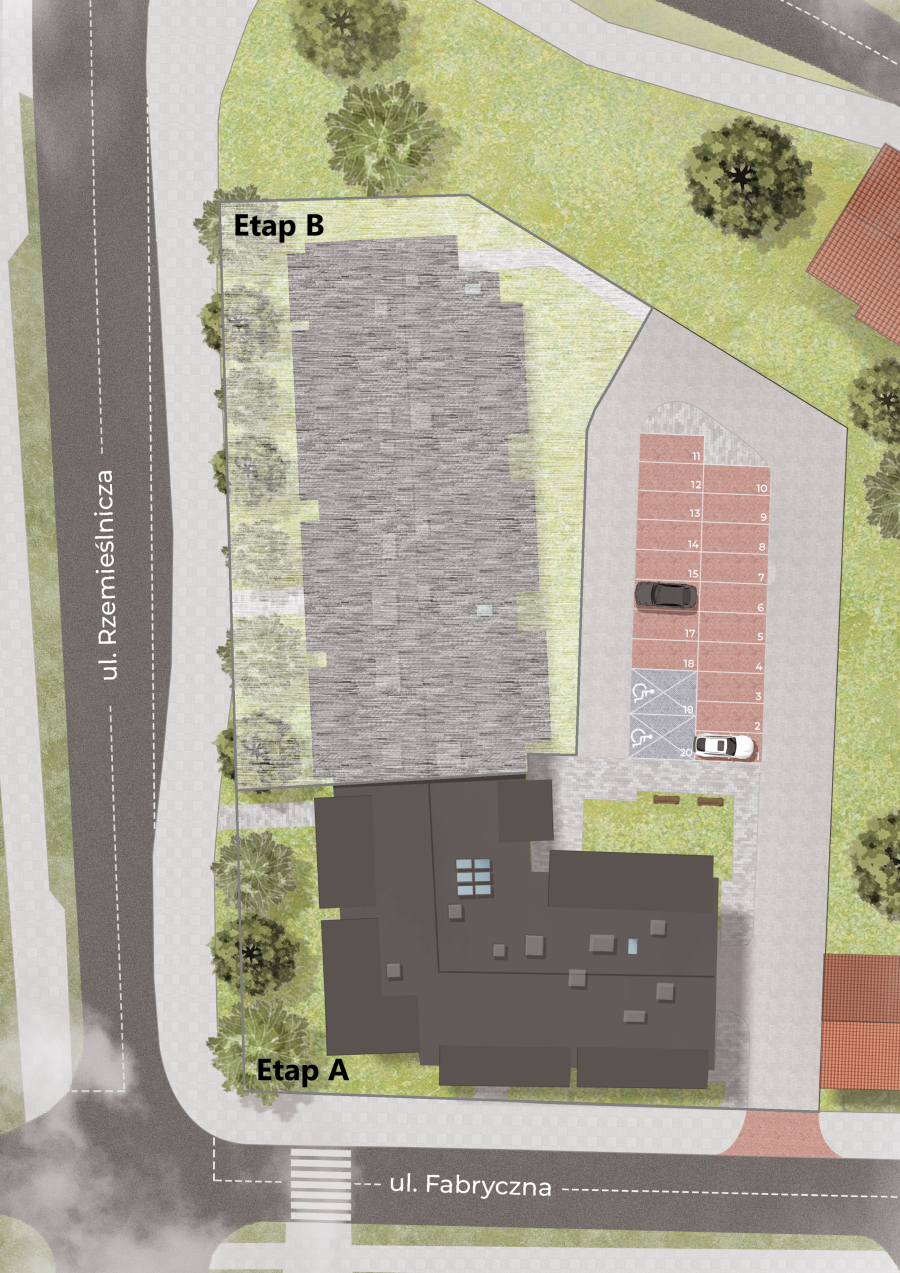
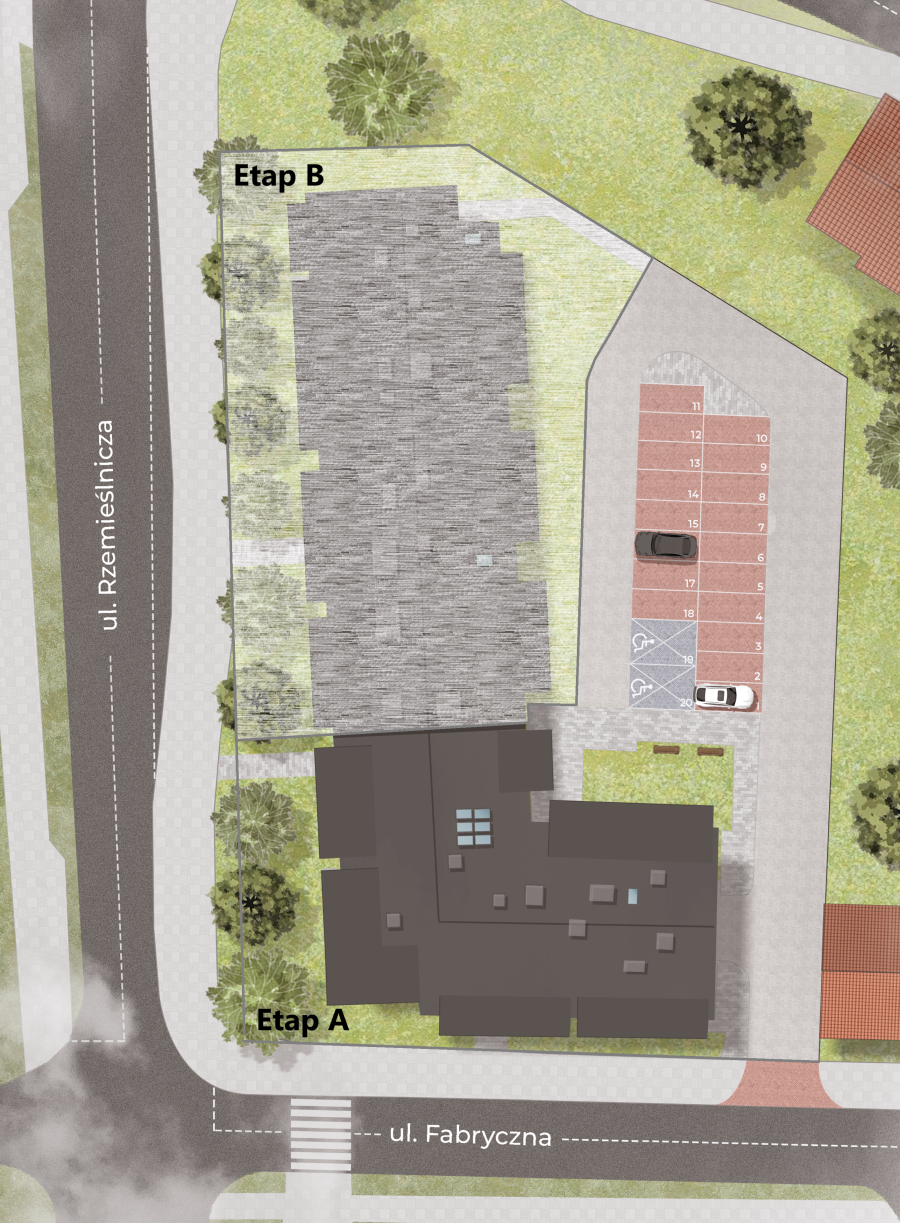
loc fix

diff --git a/lokalizacja_mieszkania_sprzedaz_legnica.html b/lokalizacja_mieszkania_sprzedaz_legnica.html
@@ -40,12 +40,12 @@
 									</header>
 									<div class="row 200%">
 										<div class="7u 12u$(medium)">
-                                       		<span class="image fit"><img src="img/Mapa_lokalizacji_inwestycji.png" alt="" height="650" />
+                                       		<span class="image fit"><img src="img/Mapa_lokalizacji_inwestycji.png" alt="" height=100% />
                                     	</div>
 										<div class="5u$ 12u$(medium)">
-                                        	<span class="image fit"><img src="img/Zagospodarowanie_terenu.png" alt="" height="650" />
+                                        	<span class="image fit"><img src="img/Zagospodarowanie_terenu.png" alt="" height=100% />
                                         </div>
-                                    </div>	
+                                    </div>
                                     <div class="row 100%">
                                     <span class="image fit"><iframe src="https://www.google.com/maps/embed?pb=!1m17!1m12!1m3!1d2170.937959287144!2d16.174721711533746!3d51.20671933250745!2m3!1f0!2f0!3f0!3m2!1i1024!2i768!4f13.1!3m2!1m1!2zNTHCsDEyJzI0LjIiTiAxNsKwMTAnMzguMyJF!5e1!3m2!1spl!2spl!4v1733865752233!5m2!1spl!2spl" onload='javascript:(function(o){o.style.height=o.contentWindow.document.body.scrollHeight+"px";}(this));' style="height:400px;width:100%;border:none;overflow:hidden;"></iframe>
                                     </div>
